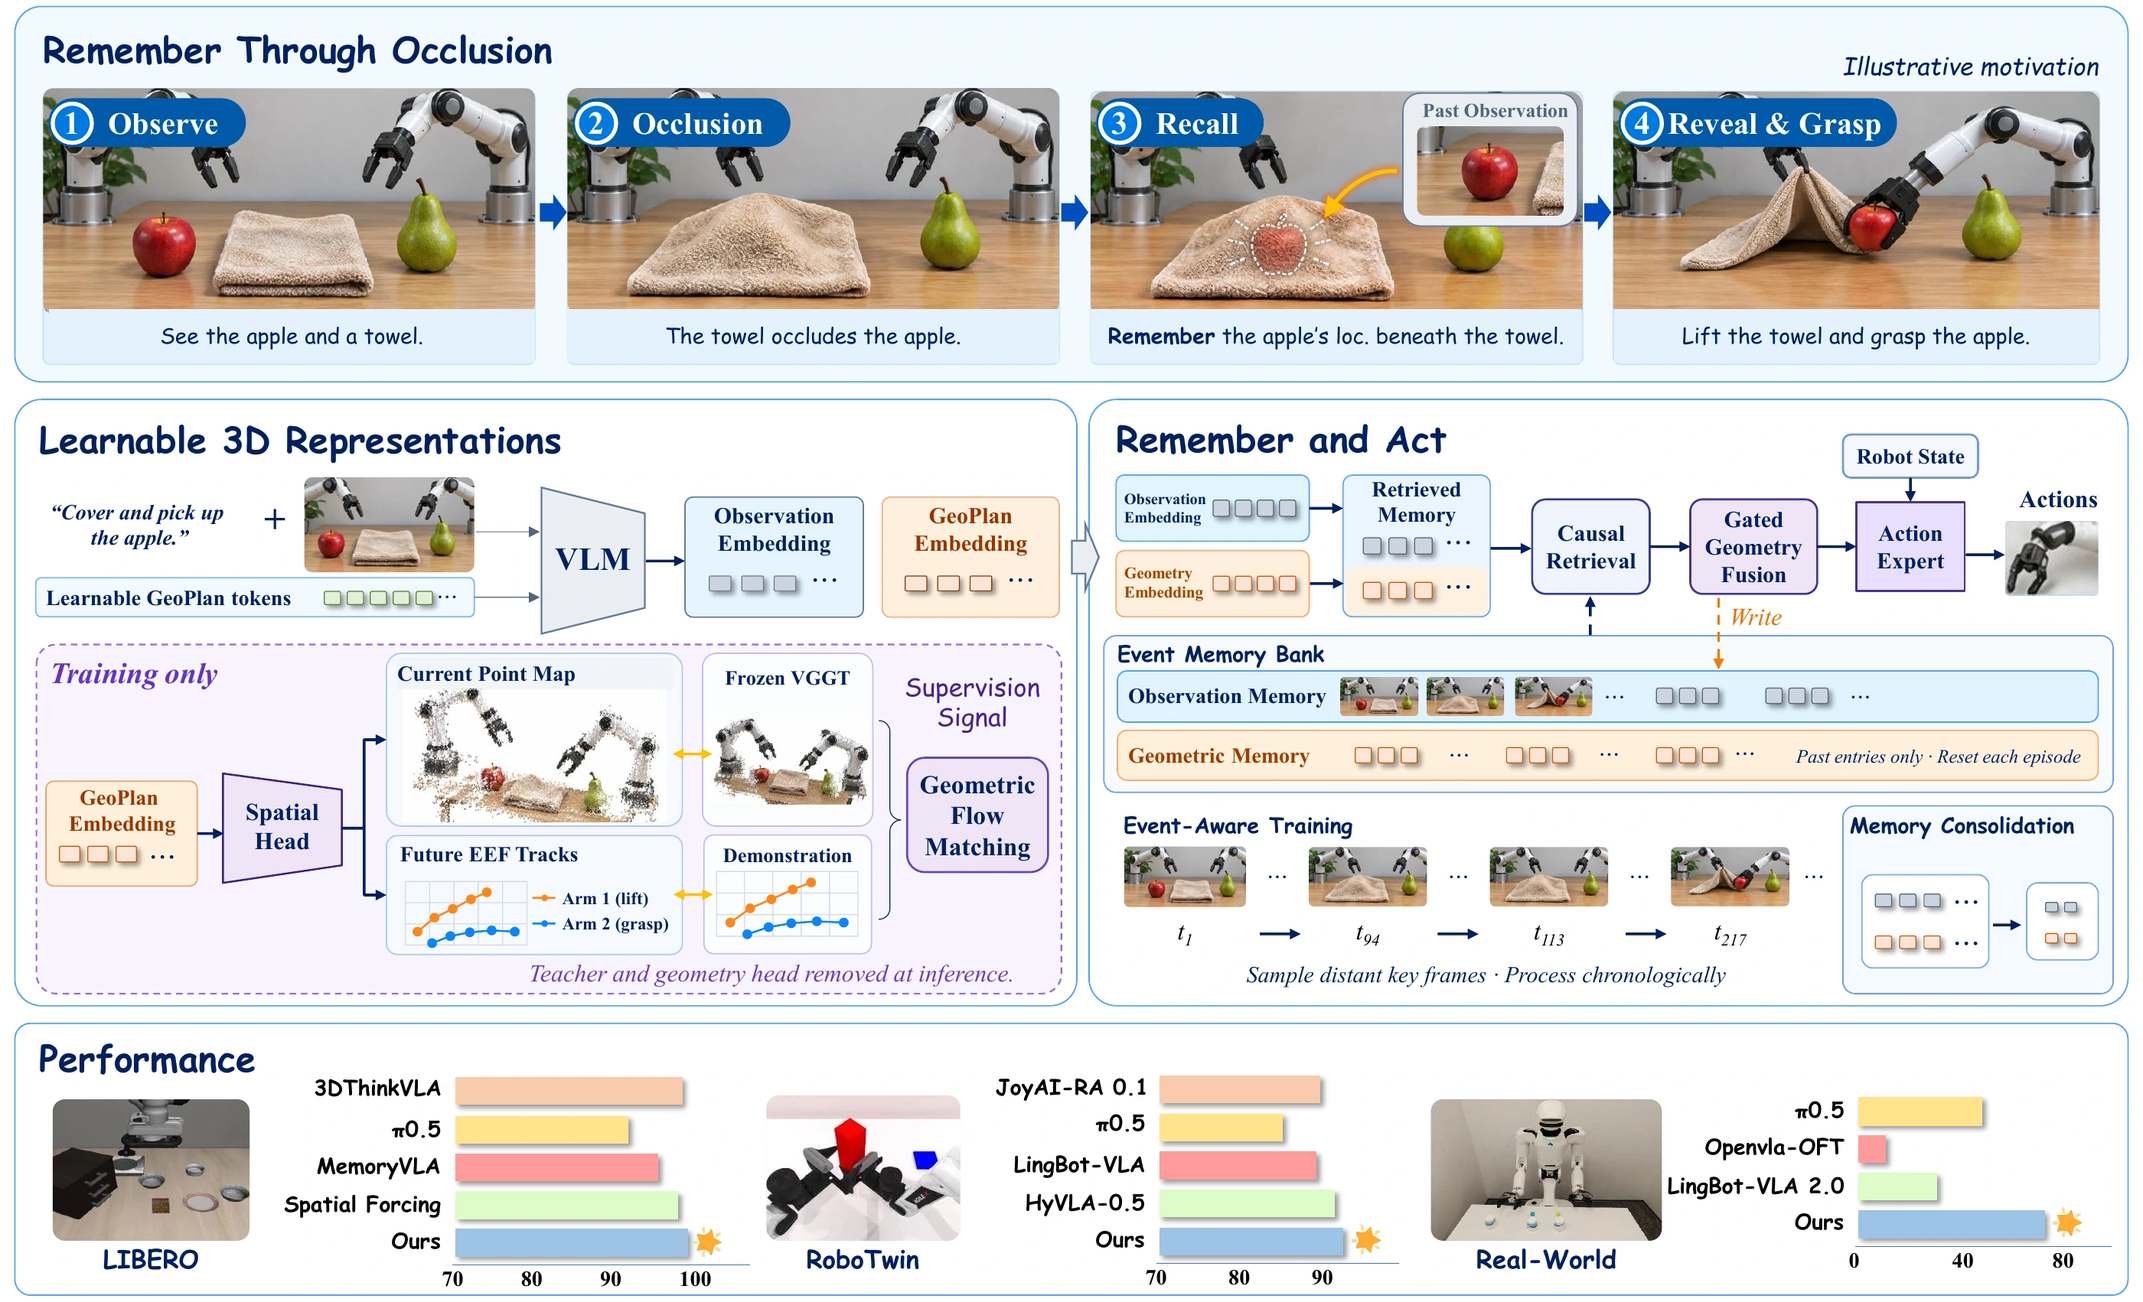
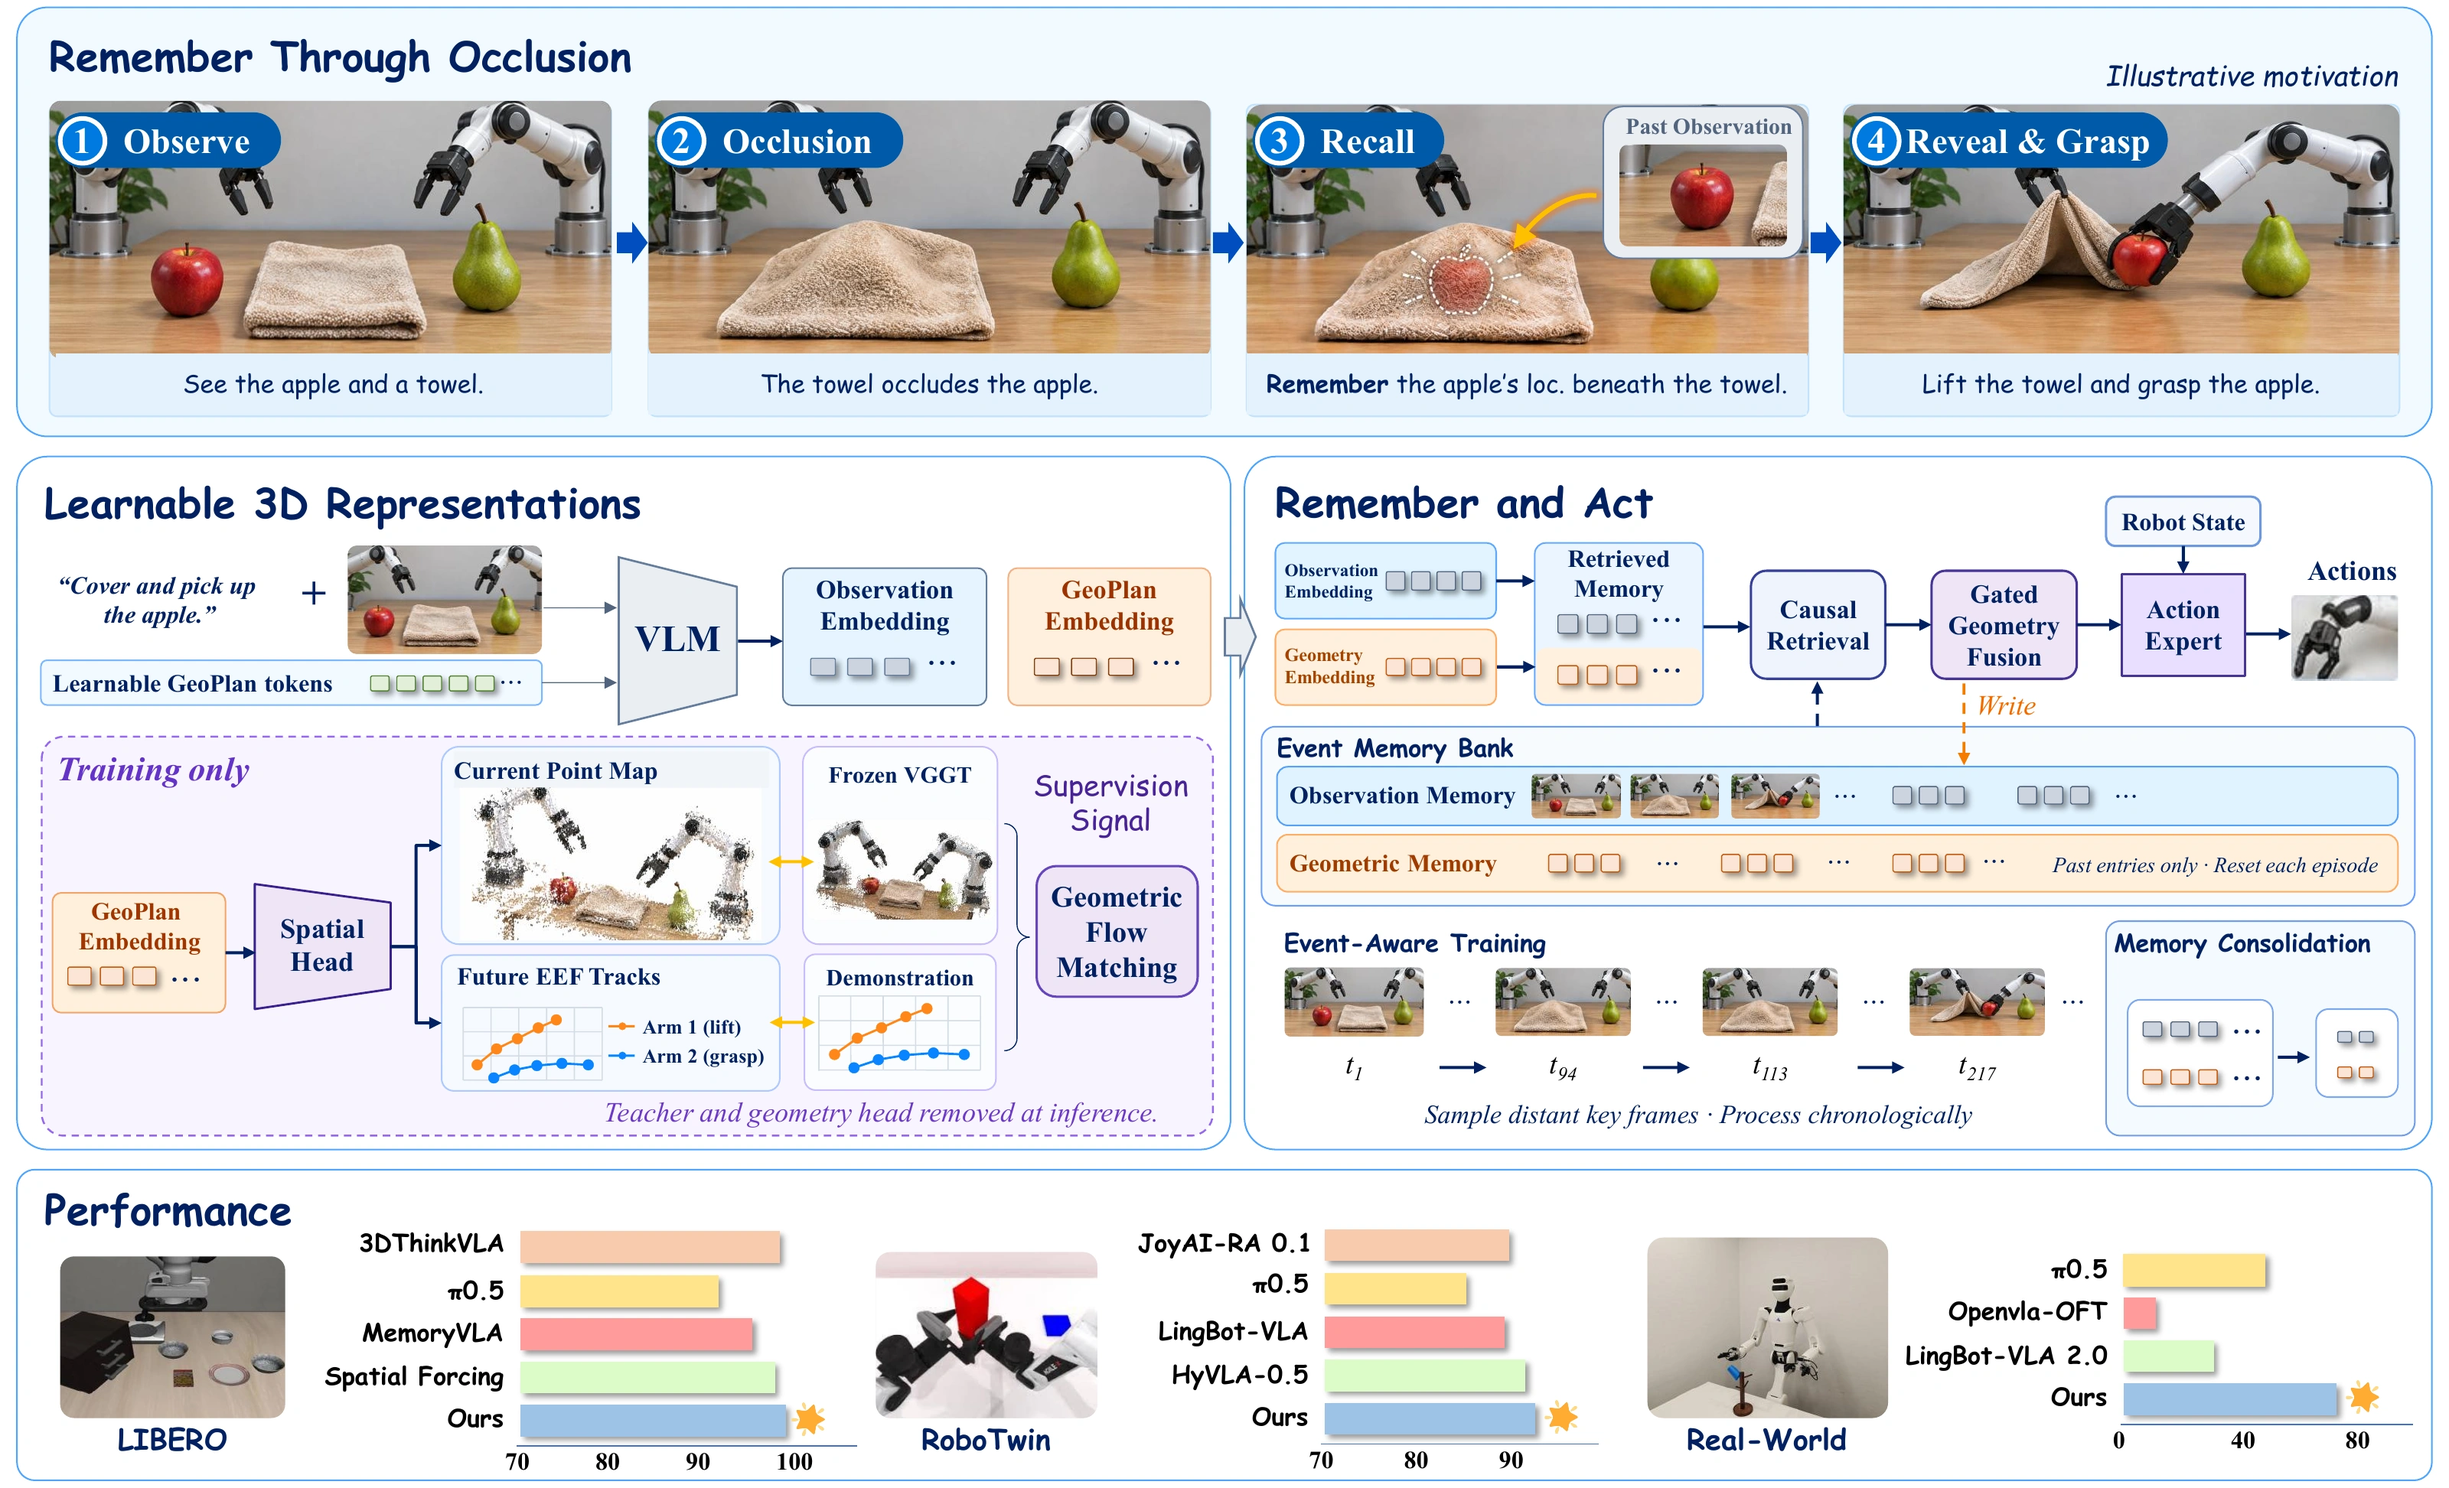
Update overview figure from revised teaser

diff --git a/index.html b/index.html
@@ -8,7 +8,7 @@
   <meta property="og:title" content="GeoMem-VLA">
   <meta property="og:description" content="Internalizing 3D Scene Understanding into Temporal Memory for Vision-Language-Action Models.">
   <meta property="og:type" content="website">
-  <meta property="og:image" content="https://GeoMem-VLA.github.io/assets/images/overview.webp">
+  <meta property="og:image" content="https://GeoMem-VLA.github.io/assets/images/overview.webp?v=20261022">
   <title>GeoMem-VLA</title>
   <link rel="icon" href="data:,">
   <link rel="stylesheet" href="assets/style.css?v=20261015-contrast">
@@ -49,7 +49,7 @@
   <main id="main" class="container">
     <section id="overview" class="section">
       <h2>Overview</h2>
-      <div data-media-slot="teaser"><figure class="figure"><button class="zoomable" data-zoom="assets/images/overview.webp" aria-label="Enlarge GeoMem-VLA overview"><img src="assets/images/overview.webp" width="2800" height="1702" loading="lazy" alt="GeoMem-VLA overview"></button></figure></div>
+      <div data-media-slot="teaser"><figure class="figure"><button class="zoomable" data-zoom="assets/images/overview.webp?v=20261022" aria-label="Enlarge GeoMem-VLA overview"><img src="assets/images/overview.webp?v=20261022" width="3200" height="1945" loading="lazy" alt="GeoMem-VLA overview"></button></figure></div>
     </section>
     <section id="abstract" class="section abstract"><h2>Abstract</h2>
         <p>Geometric structure provides a direct description of the 3D world and is essential for robotic manipulation and world understanding. Most VLA models primarily rely on 2D representations of the current observation, while geometry-aware approaches often require additional 3D geometric information. However, such geometric information, typically inferred independently from individual observations, is often discarded rather than accumulated into a persistent task representation. Our key insight is that action generation needs a compact, task-relevant geometric abstraction that can be continuously updated over time, rather than a complete, renderable 3D reconstruction at every step. Based on this insight, we introduce <strong>GeoMem-VLA</strong>, a VLA framework that internalizes explicit 3D supervision into dedicated geometric tokens, without directly aligning the VLM’s native visual embeddings to the teacher feature space, and maintains them as temporal memory for action generation. During training, a frozen geometry foundation model supervises learnable GeoPlan tokens through a geometric flow-matching objective over the current scene point map and future end-effector tracks. These tokens are subsequently integrated with the memory of observation representations, where historical information is retrieved, adaptively fused with current observations, and consolidated to keep event frames as the task progresses. At inference, the policy retrieves historical representations and fuses them with the current working representation to predict actions, without invoking the 3D teacher or explicitly reconstructing the scene. After benchmark-specific downstream adaptation, GeoMem-VLA achieves 98.9% average success on LIBERO and 91.10% / 91.24% on the clean/randomized settings of the RoboTwin benchmark. In 5 real-world tasks, GeoMem-VLA achieves 78.0% average success. These results indicate that internalizing and remembering 3D scene understanding is a promising approach to optimizing robot control strategies.</p>
